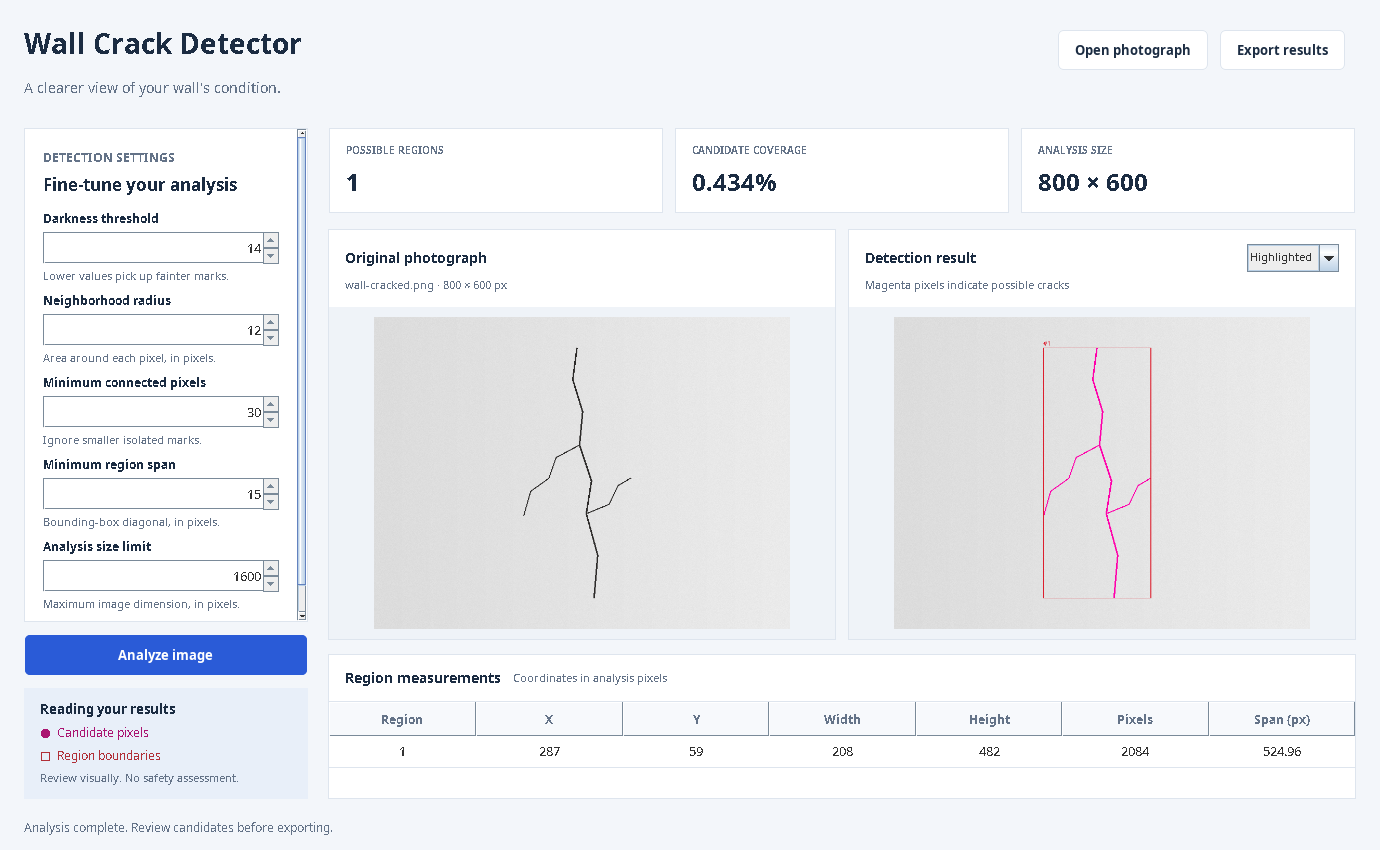
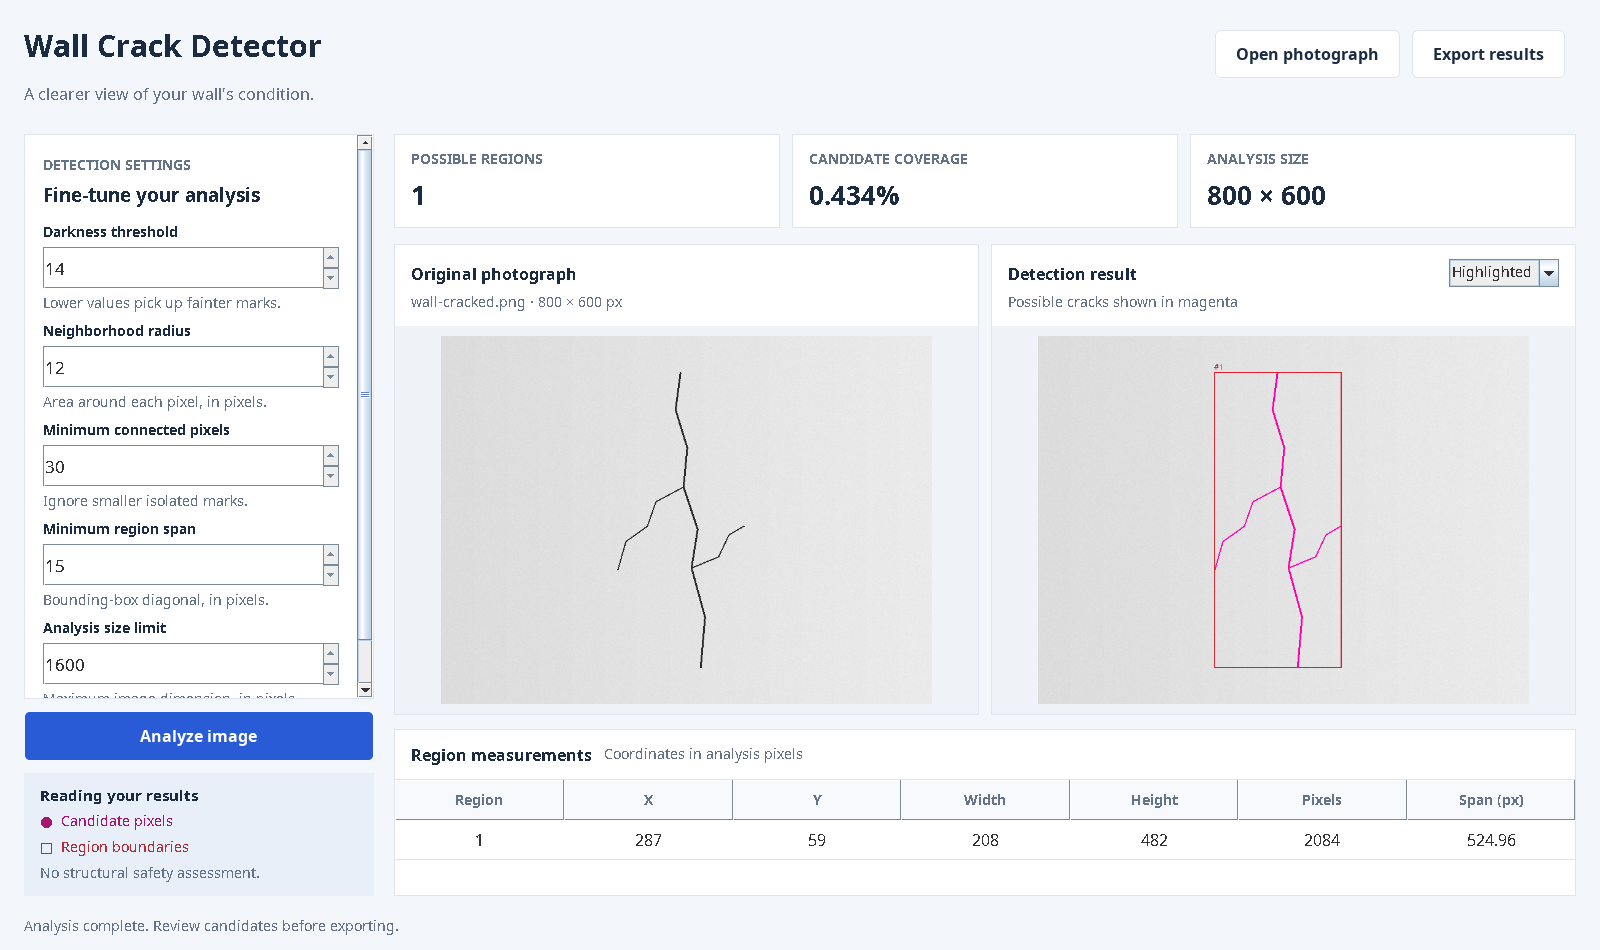
fix: enlarge desktop controls and open the workspace maximized

diff --git a/src/main/java/org/wallcrack/ui/DetectorWorkspace.java b/src/main/java/org/wallcrack/ui/DetectorWorkspace.java
@@ -116,7 +116,7 @@ final class DetectorWorkspace extends JPanel {
     private JPanel controls() {
         JPanel sidebar = new JPanel(new BorderLayout(0, 12));
         sidebar.setOpaque(false);
-        sidebar.setPreferredSize(new Dimension(284, 500));
+        sidebar.setPreferredSize(new Dimension(350, 500));
 
         JPanel settingsPanel = new JPanel(new java.awt.GridBagLayout());
         settingsPanel.setBackground(Color.WHITE);
@@ -152,7 +152,7 @@ final class DetectorWorkspace extends JPanel {
         scroll.setBorder(BorderFactory.createLineBorder(DesktopTheme.LINE));
         scroll.setHorizontalScrollBarPolicy(JScrollPane.HORIZONTAL_SCROLLBAR_NEVER);
         scroll.getVerticalScrollBar().setUnitIncrement(18);
-        scroll.setMinimumSize(new Dimension(284, 160));
+        scroll.setMinimumSize(new Dimension(350, 160));
         sidebar.add(scroll, BorderLayout.CENTER);
 
         JPanel guide = new JPanel(new GridLayout(0, 1, 0, 5));
@@ -161,7 +161,7 @@ final class DetectorWorkspace extends JPanel {
         guide.add(DesktopTheme.label("Reading your results", 13, true, DesktopTheme.INK));
         guide.add(DesktopTheme.label("●  Candidate pixels", 12, false, new Color(170, 20, 113)));
         guide.add(DesktopTheme.label("□  Region boundaries", 12, false, new Color(177, 47, 56)));
-        guide.add(DesktopTheme.label("Review visually. No safety assessment.", 11, false, DesktopTheme.MUTED));
+        guide.add(DesktopTheme.label("No structural safety assessment.", 11, false, DesktopTheme.MUTED));
         JPanel actions = new JPanel(new BorderLayout(0, 12));
         actions.setOpaque(false);
         actions.add(analyzeButton, BorderLayout.NORTH);
@@ -190,7 +190,7 @@ final class DetectorWorkspace extends JPanel {
         viewMode.addActionListener(event -> viewCards.show(results, (String) viewMode.getSelectedItem()));
         JPanel input = previewCard("Original photograph", fileInfo, original, null);
         JPanel output = previewCard("Detection result",
-                DesktopTheme.label("Magenta pixels indicate possible cracks", 11, false, DesktopTheme.MUTED), results, viewMode);
+                DesktopTheme.label("Possible cracks shown in magenta", 11, false, DesktopTheme.MUTED), results, viewMode);
         JSplitPane previews = new JSplitPane(JSplitPane.HORIZONTAL_SPLIT, input, output);
         previews.setResizeWeight(0.5);
         previews.setDividerLocation(0.5);
@@ -202,7 +202,7 @@ final class DetectorWorkspace extends JPanel {
         JTable regions = new JTable(table);
         regions.setAutoCreateRowSorter(true);
         regions.setFillsViewportHeight(true);
-        regions.setRowHeight(32);
+        regions.setRowHeight(40);
         regions.setShowVerticalLines(false);
         regions.setGridColor(DesktopTheme.LINE);
         regions.setIntercellSpacing(new Dimension(0, 1));
@@ -211,7 +211,7 @@ final class DetectorWorkspace extends JPanel {
         regions.getTableHeader().setFont(DesktopTheme.font(12, true));
         regions.getTableHeader().setBackground(new Color(247, 249, 252));
         regions.getTableHeader().setForeground(DesktopTheme.MUTED);
-        regions.getTableHeader().setPreferredSize(new Dimension(100, 34));
+        regions.getTableHeader().setPreferredSize(new Dimension(100, 40));
         regions.getTableHeader().setReorderingAllowed(false);
         var cells = new javax.swing.table.DefaultTableCellRenderer();
         cells.setHorizontalAlignment(JLabel.CENTER);
@@ -410,8 +410,11 @@ final class DetectorWorkspace extends JPanel {
         constraints.gridy++;
         constraints.insets = new java.awt.Insets(0, 0, 4, 0);
         spinner.setToolTipText(description);
-        spinner.setPreferredSize(new Dimension(220, 32));
+        spinner.setPreferredSize(new Dimension(260, 42));
         spinner.setEditor(new JSpinner.NumberEditor(spinner, "0"));
+        var editor = (JSpinner.NumberEditor) spinner.getEditor();
+        editor.getTextField().setFont(DesktopTheme.font(15, false));
+        editor.getTextField().setHorizontalAlignment(JLabel.LEFT);
         panel.add(spinner, constraints);
         constraints.gridy++;
         constraints.insets = new java.awt.Insets(0, 0, 8, 0);

diff --git a/src/main/java/org/wallcrack/ui/DesktopTheme.java b/src/main/java/org/wallcrack/ui/DesktopTheme.java
@@ -33,7 +33,7 @@ public final class DesktopTheme {
         } catch (javax.swing.UnsupportedLookAndFeelException exception) {
             throw new IllegalStateException("The Java desktop theme is unavailable.", exception);
         }
-        FontUIResource base = new FontUIResource(font(13, false));
+        FontUIResource base = new FontUIResource(font(14, false));
         var defaults = UIManager.getDefaults();
         for (Object key : defaults.keySet().toArray()) {
             if (defaults.get(key) instanceof FontUIResource) defaults.put(key, base);
@@ -48,11 +48,11 @@ public final class DesktopTheme {
         UIManager.put("TabbedPane.contentBorderInsets", new java.awt.Insets(0, 0, 0, 0));
         UIManager.put("SplitPane.background", BACKGROUND);
         UIManager.put("SplitPaneDivider.border", javax.swing.BorderFactory.createEmptyBorder());
-        UIManager.put("ScrollBar.width", 10);
+        UIManager.put("ScrollBar.width", 16);
     }
 
     static Font font(int size, boolean bold) {
-        return new Font(Font.SANS_SERIF, bold ? Font.BOLD : Font.PLAIN, size);
+        return new Font(Font.SANS_SERIF, bold ? Font.BOLD : Font.PLAIN, Math.max(14, size + 2));
     }
 
     static JLabel label(String text, int size, boolean bold, Color color) {
@@ -91,8 +91,8 @@ public final class DesktopTheme {
                 } finally { canvas.dispose(); }
             }
         };
-        button.setFont(font(13, true));
-        button.setPreferredSize(new Dimension(button.getFontMetrics(button.getFont()).stringWidth(text) + 36, 42));
+        button.setFont(font(14, true));
+        button.setPreferredSize(new Dimension(button.getFontMetrics(button.getFont()).stringWidth(text) + 44, 50));
         button.setMinimumSize(button.getPreferredSize());
         button.setBorderPainted(false);
         button.setContentAreaFilled(false);

diff --git a/src/main/java/org/wallcrack/ui/DetectorFrame.java b/src/main/java/org/wallcrack/ui/DetectorFrame.java
@@ -1,6 +1,7 @@
 package org.wallcrack.ui;
 
 import java.awt.Dimension;
+import java.awt.GraphicsEnvironment;
 import javax.swing.JFrame;
 
 /**
@@ -14,9 +15,11 @@ public final class DetectorFrame extends JFrame {
     public DetectorFrame() {
         super("Wall Crack Detector");
         setDefaultCloseOperation(JFrame.EXIT_ON_CLOSE);
-        setMinimumSize(new Dimension(1100, 740));
-        setSize(1380, 900);
+        var screen = GraphicsEnvironment.getLocalGraphicsEnvironment().getMaximumWindowBounds();
+        setMinimumSize(new Dimension(Math.min(1180, screen.width), Math.min(760, screen.height)));
+        setSize(Math.min(1500, screen.width), Math.min(960, screen.height));
         setContentPane(new DetectorWorkspace());
         setLocationRelativeTo(null);
+        setExtendedState(JFrame.MAXIMIZED_BOTH);
     }
 }

diff --git a/README.md b/README.md
@@ -68,7 +68,9 @@ Changing settings clears the previous result and disables export until
 reanalysis. No arguments, or `--gui`, opens the desktop.
 
 The settings panel scrolls on smaller windows, while **Analyze image** stays
-visible. The desktop uses a consistent theme across operating systems.
+visible. The desktop opens maximized, uses larger controls and text (at least
+14-point), and keeps its styling consistent across operating systems. Use the
+window's restore button if you prefer a smaller window.
 
 ![Desktop workspace showing analysis of the synthetic example](docs/desktop-preview.png)
 
@@ -188,8 +190,9 @@ same 20 regression tests through the Exec Maven Plugin.
 
 The tests cover positive/negative detection, parameter changes, boundaries,
 resizing, transparency, immutability, cancellation, decoding, exports, CLI
-errors, and headless preview painting. The offline suite, strict Javadoc, and
-Maven packaging were verified on JDK 25 with Java 17 compilation compatibility.
+errors, and headless preview painting. The offline suite and strict Javadoc
+were verified on actual JDK 17, 21, and 25 installations. Maven packaging was
+also verified on JDK 25 with Java 17 compilation compatibility.
 Complete desktop interaction requires manual verification on a graphical
 workstation; headless painting does not verify the full UI workflow.
 See [development instructions](docs/DEVELOPMENT.md).

diff --git a/docs/DEVELOPMENT.md b/docs/DEVELOPMENT.md
@@ -40,7 +40,8 @@ photos with documented provenance before reporting performance metrics.
 
 On a workstation with a graphical display:
 
-1. Launch without arguments. Analyze/Export should be disabled initially.
+1. Launch without arguments. The window should open maximized with readable
+   text and larger controls. Analyze/Export should be disabled initially.
 2. Load `samples/wall-cracked.png` and analyze with defaults. Expect one region,
    about 0.434% coverage, an overlay, a binary mask, and one table row.
 3. Resize the window and change the result selector; verify image proportions
@@ -80,3 +81,8 @@ history with `git log --reverse --oneline`.
 GitHub Actions runs the offline regression suite and strict Javadoc checks on
 Java 17, 21, and 25. The workflow requires no external datasets or Maven library
 dependencies. Local Maven packaging is verified separately with `mvn package`.
+
+Use an actual JDK for each compatibility check: `--release 17` on a newer JDK
+checks compilation compatibility but still uses that newer JDK's Javadoc tool.
+Java 17 requires explicit constructor parameter tags on compact record
+constructors, so keep those comments even if newer JDKs accept their omission.
